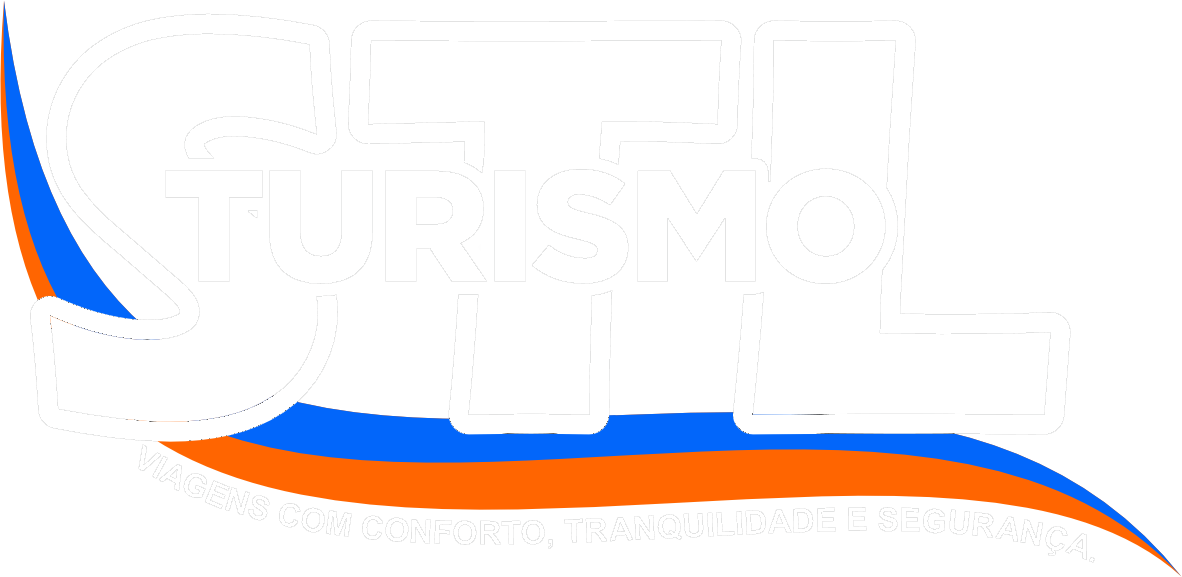
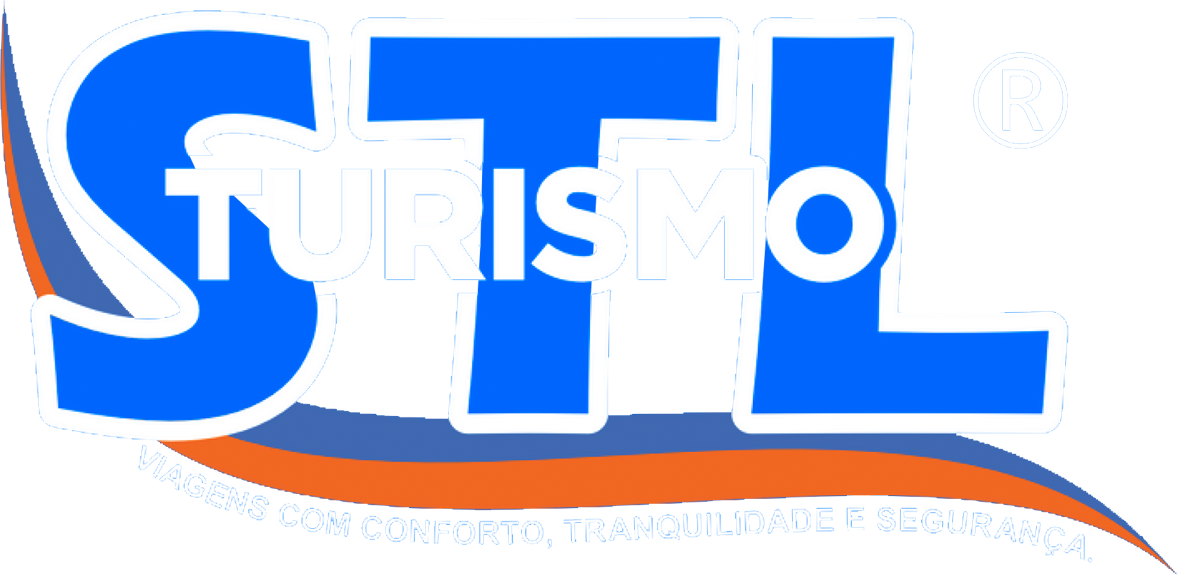
fixes

diff --git a/src/pages/Packages.jsx b/src/pages/Packages.jsx
@@ -70,8 +70,10 @@ const Packages = () => {
   // featured removed
     national: packages.filter(p => p.category === 'nacional').length,
     international: packages.filter(p => p.category === 'internacional').length,
-    maritimo: packages.filter(p => p.transportMode === 'maritimo' || p.transportMode === 'aereo' || p.transportMode === 'misto').length,
-    rodoviario: packages.filter(p => p.transportMode === 'rodoviario').length
+    maritimo: packages.filter(p => p.transportMode === 'maritimo').length,
+    aereo: packages.filter(p => p.transportMode === 'aereo').length,
+    rodoviario: packages.filter(p => p.transportMode === 'rodoviario').length,
+    misto: packages.filter(p => p.transportMode === 'misto').length
   };
 
   // Filtros e busca
@@ -80,8 +82,10 @@ const Packages = () => {
   // featured filter removed
       if (filter === 'national') return pkg.category === 'nacional';
       if (filter === 'international') return pkg.category === 'internacional';
-      if (filter === 'maritimo') return pkg.transportMode === 'maritimo' || pkg.transportMode === 'aereo' || pkg.transportMode === 'misto';
+      if (filter === 'maritimo') return pkg.transportMode === 'maritimo';
+      if (filter === 'aereo') return pkg.transportMode === 'aereo';
       if (filter === 'rodoviario') return pkg.transportMode === 'rodoviario';
+      if (filter === 'misto') return pkg.transportMode === 'misto';
       return true;
     })
     .filter(pkg => 
@@ -191,7 +195,9 @@ const Packages = () => {
                   { key: 'national', label: 'Nacional', icon: MapPin },
                   { key: 'international', label: 'Internacional', icon: MapPin },
                   { key: 'maritimo', label: 'Marítimo', icon: Ship },
-                  { key: 'rodoviario', label: 'Rodoviário', icon: Bus }
+                  { key: 'aereo', label: 'Aéreo', icon: Plane },
+                  { key: 'rodoviario', label: 'Rodoviário', icon: Bus },
+                  { key: 'misto', label: 'Misto', icon: Ship }
                 ].map(({ key, label, icon: Icon }) => {
                   const active = filter === key;
                   return (
@@ -283,12 +289,17 @@ const Packages = () => {
                         {/* Transport Mode Badge */}
                         {pkg.transportMode && (
                           <div className={`absolute top-4 left-1/2 -translate-x-1/2 px-3 py-1 rounded-full text-xs font-semibold shadow-md flex items-center gap-1
-                            ${(pkg.transportMode === 'maritimo' || pkg.transportMode === 'aereo' || pkg.transportMode === 'misto') ? 'bg-blue-600 text-white' : pkg.transportMode === 'rodoviario' ? 'bg-emerald-600 text-white' : 'bg-purple-600 text-white'}`}
+                            ${pkg.transportMode === 'aereo' ? 'bg-sky-500 text-white' : 
+                              pkg.transportMode === 'maritimo' ? 'bg-blue-600 text-white' : 
+                              pkg.transportMode === 'rodoviario' ? 'bg-emerald-600 text-white' : 
+                              pkg.transportMode === 'misto' ? 'bg-purple-600 text-white' : 'bg-gray-600 text-white'}`}
                           >
-                            {(pkg.transportMode === 'maritimo' || pkg.transportMode === 'aereo' || pkg.transportMode === 'misto') && <Ship size={12} />}
+                            {pkg.transportMode === 'aereo' && <Plane size={12} />}
+                            {pkg.transportMode === 'maritimo' && <Ship size={12} />}
                             {pkg.transportMode === 'rodoviario' && <Bus size={12} />}
+                            {pkg.transportMode === 'misto' && <Ship size={12} />}
                             <span className="capitalize">
-                              {pkg.transportMode === 'aereo' || pkg.transportMode === 'misto' ? 'Marítimo' : pkg.transportMode}
+                              {pkg.transportMode}
                             </span>
                           </div>
                         )}

diff --git a/src/components/common/Header.jsx b/src/components/common/Header.jsx
@@ -41,9 +41,9 @@ const Header = ({ transparentOnTop = false }) => {
           <div className="flex items-center">
             <Link to="/" className="flex items-center hover:scale-105 transition-transform duration-300">
               <img 
-                src="/stl2.png" 
+                src={isTransparent ? "/stl3.png" : "/stl2.png"}
                 alt="STL Turismo" 
-                className={`h-12 w-auto ${isTransparent ? 'filter drop-shadow-md brightness-0 invert' : ''}`}
+                className={`h-12 w-auto transition-all duration-300 ${isTransparent ? 'filter drop-shadow-md brightness-0 invert' : ''}`}
               />
             </Link>
           </div>

diff --git a/src/components/admin/AdminPackageForm.jsx b/src/components/admin/AdminPackageForm.jsx
@@ -395,6 +395,8 @@ const AdminPackageForm = ({ isOpen, onClose, packageData = null, onSuccess, isCo
             >
               <option value="maritimo">Marítimo</option>
               <option value="rodoviario">Rodoviário</option>
+              <option value="aereo">Aéreo</option>
+              <option value="misto">Misto</option>
             </select>
           </div>
 
